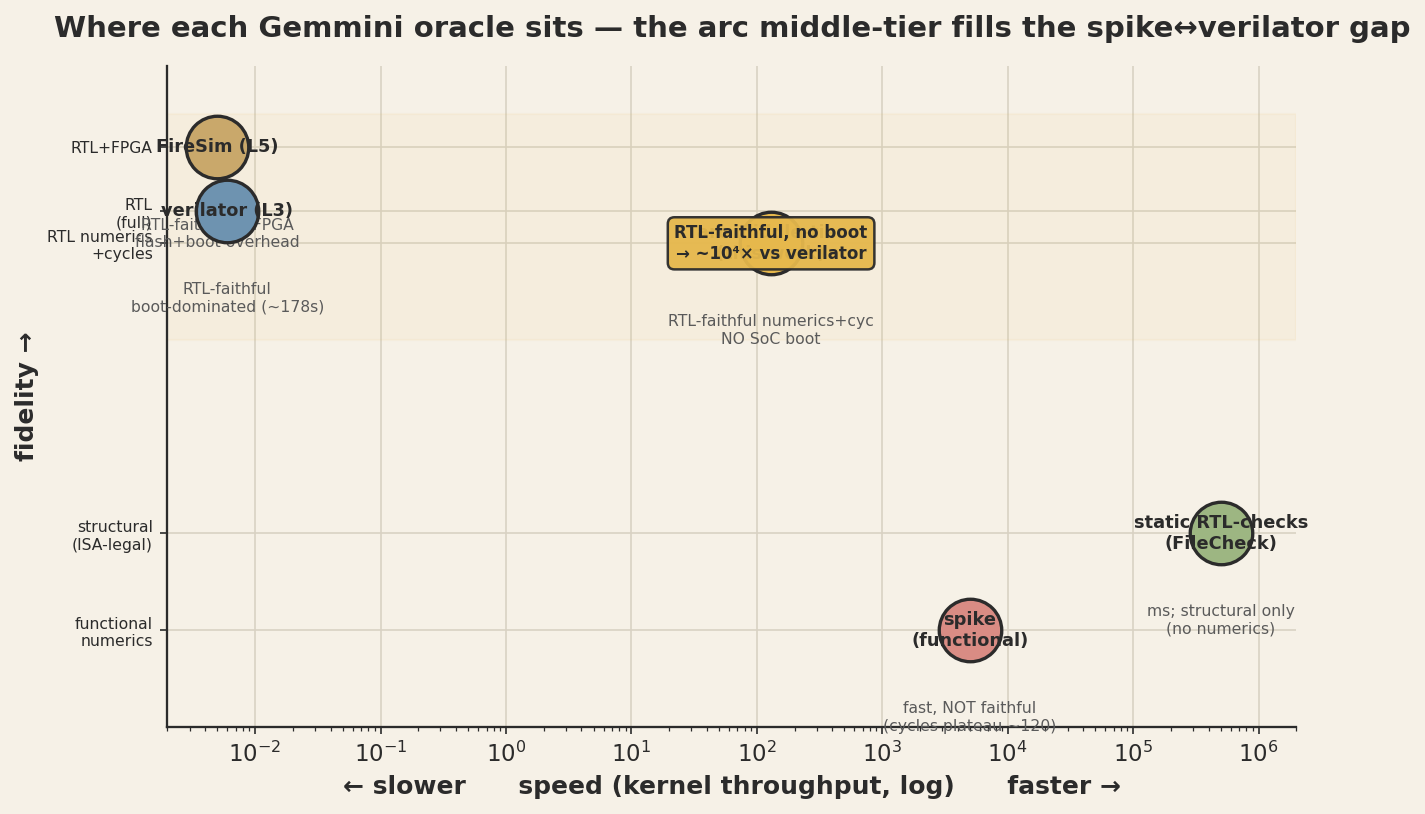
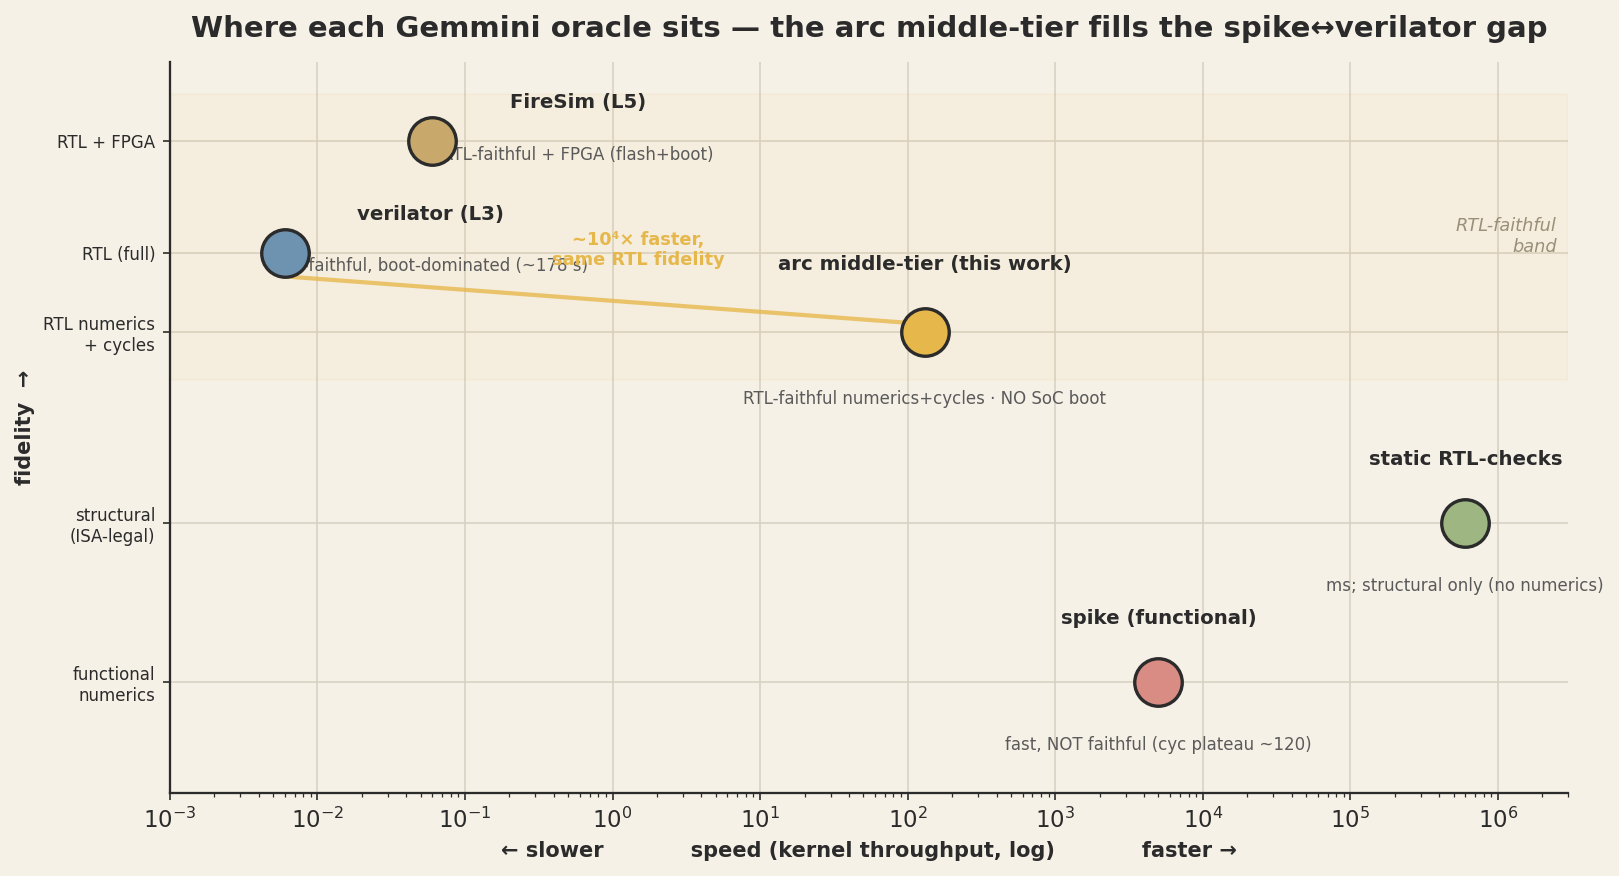
viz: single poster PNG (RTL_ARC_RESULTS.png, 10 panels) + cleaner oracle-landscape layout

diff --git a/experiments/gemmini_perf_bench/scripts/gen_arc_plots.py b/experiments/gemmini_perf_bench/scripts/gen_arc_plots.py
@@ -30,29 +30,36 @@ def _save(fig, name):
 
 
 def fig_landscape():
-    # speed (x, log: kernels/sec-ish, higher=faster) vs fidelity (y, 0..4)
-    pts = [  # name, speed(rel, log10 arb), fidelity, color, note
-        ("spike\n(functional)", 5e3, 1.0, S.COLOR["baseline"], "fast, NOT faithful\n(cycles plateau ~120)"),
-        ("static RTL-checks\n(FileCheck)", 5e5, 1.6, S.COLOR["iree_dialect"], "ms; structural only\n(no numerics)"),
-        ("arc middle-tier\n(this work)", 1.3e2, 3.4, S.COLOR["merlin_targetgen"], "RTL-faithful numerics+cyc\nNO SoC boot"),
-        ("verilator (L3)", 6e-3, 3.6, S.COLOR["golden"], "RTL-faithful\nboot-dominated (~178s)"),
-        ("FireSim (L5)", 5e-3, 4.0, S.COLOR["merlin_native"], "RTL-faithful + FPGA\nflash+boot overhead"),
+    # speed (x, log; higher=faster) vs fidelity (y). label placed beside each dot, note below — no overlap.
+    pts = [  # name, speed, fidelity, color, note, (label dx,dy pts), (note dx,dy pts)
+        ("spike (functional)", 5e3, 1.0, S.COLOR["baseline"], "fast, NOT faithful (cyc plateau ~120)", (0, 26), (0, -26)),
+        ("static RTL-checks", 6e5, 2.0, S.COLOR["iree_dialect"], "ms; structural only (no numerics)", (0, 26), (0, -26)),
+        ("arc middle-tier (this work)", 1.3e2, 3.2, S.COLOR["merlin_targetgen"], "RTL-faithful numerics+cycles · NO SoC boot", (0, 28), (0, -28)),
+        ("verilator (L3)", 6e-3, 3.7, S.COLOR["golden"], "RTL-faithful, boot-dominated (~178 s)", (70, 14), (70, -2)),
+        ("FireSim (L5)", 6e-2, 4.4, S.COLOR["merlin_native"], "RTL-faithful + FPGA (flash+boot)", (70, 14), (70, -2)),
     ]
-    fig, ax = plt.subplots(figsize=(9, 5.6))
-    for name, spd, fid, col, note in pts:
-        ax.scatter([spd], [fid], s=900, color=col, edgecolor=S.INK, lw=1.6, zorder=5)
-        ax.annotate(name, (spd, fid), ha="center", va="center", fontsize=8.5, fontweight="bold", zorder=6)
-        ax.annotate(note, (spd, fid), xytext=(0, -34), textcoords="offset points",
-                    ha="center", va="top", fontsize=7.5, color="#5A5A5A")
+    fig, ax = plt.subplots(figsize=(11, 6))
+    ax.axhspan(2.9, 4.7, color=S.COLOR["merlin_targetgen"], alpha=0.06)
+    ax.text(2.5e6, 3.8, "RTL-faithful\nband", ha="right", va="center", fontsize=8.5, color="#9a8f78", style="italic")
+    for name, spd, fid, col, note, (lx, ly), (nx, ny) in pts:
+        ax.scatter([spd], [fid], s=520, color=col, edgecolor=S.INK, lw=1.6, zorder=5)
+        ax.annotate(name, (spd, fid), xytext=(lx, ly), textcoords="offset points",
+                    ha="center", va="bottom", fontsize=9.5, fontweight="bold", zorder=6)
+        ax.annotate(note, (spd, fid), xytext=(nx, ny), textcoords="offset points",
+                    ha="center", va="top", fontsize=8, color="#5A5A5A")
+    # arc -> verilator speedup arrow (both RTL-faithful, arc far faster)
+    ax.annotate("", xy=(1.3e2, 3.25), xytext=(6e-3, 3.55),
+                arrowprops=dict(arrowstyle="->", color=S.COLOR["merlin_targetgen"], lw=2, alpha=.8))
+    ax.text(1.5, 3.62, "~10⁴× faster,\nsame RTL fidelity", ha="center", fontsize=8.5,
+            fontweight="bold", color=S.COLOR["merlin_targetgen"])
     ax.set_xscale("log")
-    ax.set_xlabel("← slower      speed (kernel throughput, log)      faster →")
-    ax.set_yticks([1, 1.6, 3.4, 3.6, 4.0])
-    ax.set_yticklabels(["functional\nnumerics", "structural\n(ISA-legal)", "RTL numerics\n+cycles", "RTL\n(full)", "RTL+FPGA"], fontsize=7.5)
-    ax.set_ylabel("fidelity →")
-    ax.set_ylim(0.4, 4.5); ax.set_xlim(2e-3, 2e6)
-    ax.set_title("Where each Gemmini oracle sits — the arc middle-tier fills the spike↔verilator gap", pad=14)
-    ax.axhspan(2.8, 4.2, color=S.COLOR["merlin_targetgen"], alpha=0.06)
-    S.badge(ax, 1.3e2, 3.4, "RTL-faithful, no boot\n→ ~10⁴× vs verilator", color=S.COLOR["merlin_targetgen"], fontsize=8)
+    ax.set_xlabel("← slower            speed (kernel throughput, log)            faster →", fontsize=10)
+    ax.set_yticks([1.0, 2.0, 3.2, 3.7, 4.4])
+    ax.set_yticklabels(["functional\nnumerics", "structural\n(ISA-legal)", "RTL numerics\n+ cycles",
+                        "RTL (full)", "RTL + FPGA"], fontsize=8)
+    ax.set_ylabel("fidelity  →", fontsize=10)
+    ax.set_ylim(0.3, 4.9); ax.set_xlim(1e-3, 3e6)
+    ax.set_title("Where each Gemmini oracle sits — the arc middle-tier fills the spike↔verilator gap", pad=12)
     _save(fig, "landscape")
 
 

diff --git a/experiments/gemmini_perf_bench/scripts/build_results_png.py b/experiments/gemmini_perf_bench/scripts/build_results_png.py
@@ -1,0 +1,57 @@
+"""Compose all RTL-checks + arc + perf figures into a single poster PNG (cream background + title).
+-> reports/RTL_ARC_RESULTS.png"""
+from __future__ import annotations
+import matplotlib
+matplotlib.use("Agg")
+import matplotlib.pyplot as plt
+import matplotlib.image as mpimg
+import _pbcommon as PB
+
+CREAM, INK = "#F6F1E7", "#2B2B2B"
+R = PB.REPORTS
+
+# (figure stem, section caption) in reading order; hero first
+PANELS = [
+    ("fig_arc_landscape", "1 · Oracle landscape — the arc middle-tier fills the spike↔verilator gap"),
+    ("fig_arc_bitexact", "2 · Arc middle-tier — 20/20 bit-exact vs golden + per-capsule cycles"),
+    ("fig_arc_speed", "3 · Arc vs verilator wall time — RTL-faithful at ~10⁴× (no SoC boot)"),
+    ("fig_arc_latency", "4 · Timing realism — arc cycles scale with modelled memory latency"),
+    ("fig_arc_hostcomm", "5 · Host↔accelerator telemetry (RoCC control + DMA traffic)"),
+    ("fig_arc_checks", "6 · RTL-derived static checks vs oracle — 0/242 FP, 65%→88% recall"),
+    ("fig_arc_mutation", "7 · Pre-screen catches RTL failures in ms vs verilator seconds"),
+    ("fig_cycles", "8 · Cross-approach cycles (verilator + FireSim L5, 24/24 kernels)"),
+    ("fig_capability", "9 · Correctness & capability (spike) — who compiles each op"),
+    ("fig_spike_not_timing", "10 · Why spike ≠ performance (functional sim plateaus)"),
+]
+imgs = [(c, mpimg.imread(R / f"{s}.png")) for s, c in PANELS if (R / f"{s}.png").is_file()]
+
+PAGE_W = 13.0          # inches
+TITLE_H = 1.1          # inches for the header band
+CAP_H = 0.42           # inches per caption row
+heights = [PAGE_W * (im.shape[0] / im.shape[1]) + CAP_H for _, im in imgs]
+total_h = TITLE_H + sum(heights) + 0.3
+
+fig = plt.figure(figsize=(PAGE_W, total_h), facecolor=CREAM)
+y = total_h
+# title band
+fig.text(0.5, 1 - 0.45 / total_h, "RTL-derived checks + arcilator middle-tier — results",
+         ha="center", va="center", fontsize=22, fontweight="bold", color=INK)
+fig.text(0.5, 1 - 0.85 / total_h,
+         "deterministic, RTL-grounded (CIRCT) · 20/20 arc bit-exact · 0/242 check FP · 24/24 cycle-accurate · >10⁴× vs verilator",
+         ha="center", va="center", fontsize=11, color="#5A5A5A")
+y -= TITLE_H
+for (cap, im), h in zip(imgs, heights):
+    # caption
+    fig.text(0.06, (y - CAP_H * 0.55) / total_h, cap, ha="left", va="center",
+             fontsize=12.5, fontweight="bold", color=INK)
+    # image axes below the caption
+    ax_h = h - CAP_H
+    ax = fig.add_axes([0.04, (y - h) / total_h, 0.92, ax_h / total_h])
+    ax.imshow(im); ax.axis("off")
+    y -= h
+
+out = R / "RTL_ARC_RESULTS.png"
+fig.savefig(out, dpi=130, facecolor=CREAM, bbox_inches="tight")
+plt.close(fig)
+import os
+print(f"wrote {out} ({os.path.getsize(out)//1024} KB, {len(imgs)} panels, {total_h:.0f}in tall)")
